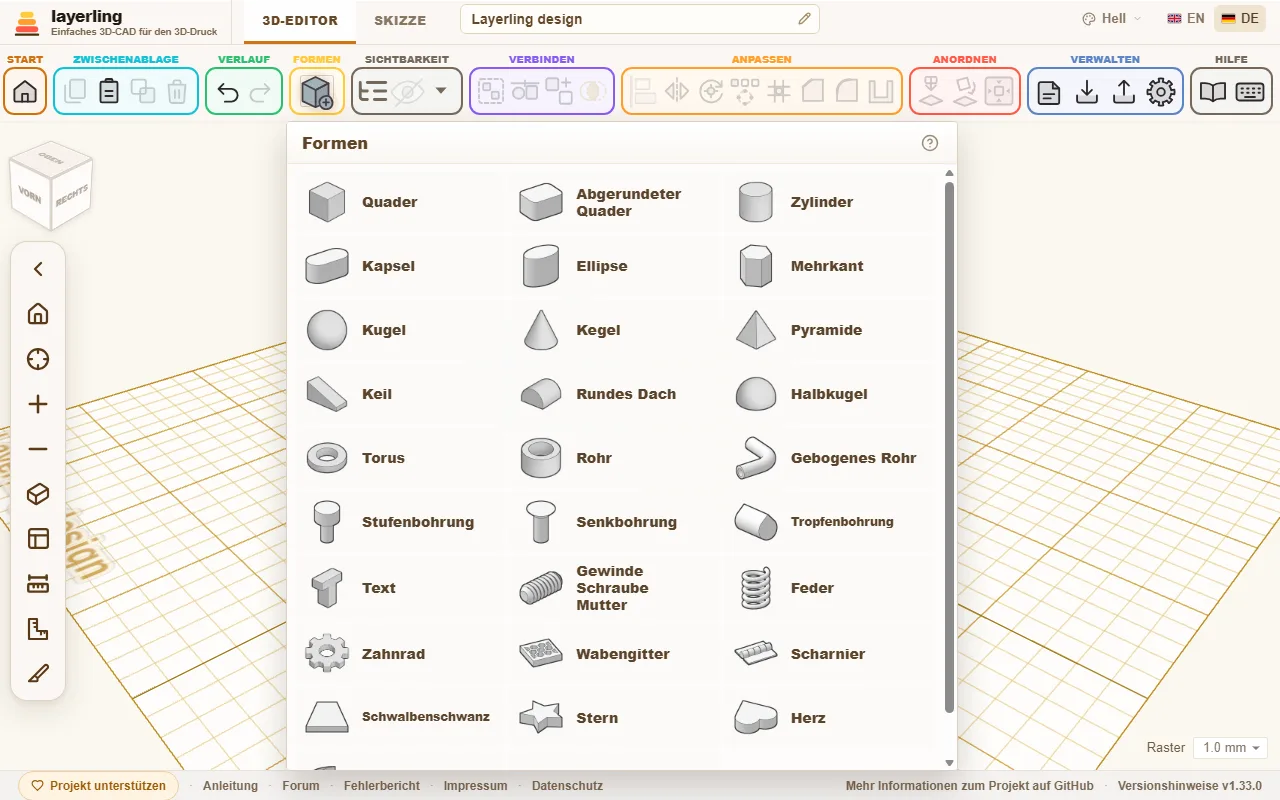
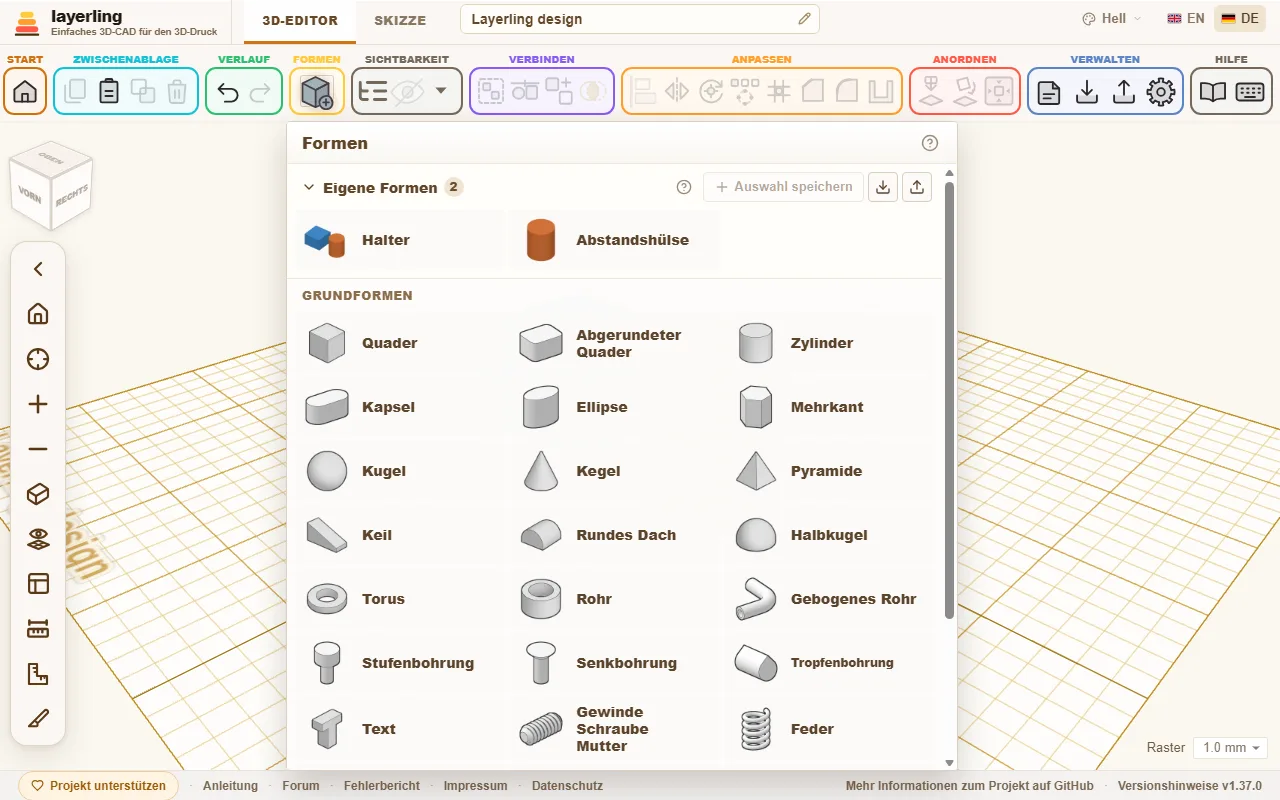
Release 1.38.0
Custom shapes in the shape library, in the browser and on the server
store, backed up with "Back up all" (#109). Guide picture of the shape
library retaken with the new section.

diff --git a/apps/web/src/lib/messages.de.ts b/apps/web/src/lib/messages.de.ts
@@ -423,7 +423,7 @@ export const MESSAGES_DE: Record<MessageKey, string> = {
   "guide.files.import": "STL, OBJ, 3MF, STEP und SVG lassen sich importieren und darum herum weiterbauen. Eine farbige OBJ oder 3MF kommt als ein Körper je Farbe; bei einer OBJ die .mtl oder das ZIP aus Tinkercad gleich mit auswählen.",
   "guide.files.bugReport": "„Fehlerbericht“ unten in der Fußzeile speichert den Entwurf als .lyl samt Version, Browser und den letzten Meldungen, zum Anhängen im Forum oder bei GitHub.",
   "guide.files.storeOff": "Auf dem eigenen Server legst du neben der index.html einen Ordner „store\" an - dann lassen sich Entwürfe zusätzlich zum Browser auch auf dem Server ablegen. Dafür muss der Server PHP können.",
-  "guide.files.storeOn": "Diese Installation legt Entwürfe auch auf dem Server ab. Die Startseite zeigt den Ordner neben deinen Browser-Entwürfen: zieh Entwürfe hinein, leg dort Unterordner an oder starte neue gleich darin - gesichert wird von selbst.",
+  "guide.files.storeOn": "Diese Installation legt Entwürfe auch auf dem Server ab. Die Startseite zeigt den Ordner neben deinen Browser-Entwürfen: zieh Entwürfe hinein, leg dort Unterordner an oder starte neue gleich darin - gesichert wird von selbst. Auch eigene Formen können dort liegen, im Ordner „Custom shapes“.",
   "guide.group.settings": "Einstellungen",
   "guide.settings.workspace": "Das Zahnrad öffnet Maßeinheiten, Raster, Plattengröße, Farben und die Länge des Verlaufs.",
   "guide.settings.language": "Die Sprache stellst du in den Einstellungen auf der Startseite um.",

diff --git a/apps/web/src/lib/messages.en.ts b/apps/web/src/lib/messages.en.ts
@@ -424,7 +424,7 @@ export const MESSAGES_EN = {
   "guide.files.import": "STL, OBJ, 3MF, STEP and SVG can be imported and built around. A coloured OBJ or 3MF comes in as one body per colour; for an OBJ, select its .mtl or Tinkercad's ZIP along with it.",
   "guide.files.bugReport": "\"Bug report\" in the footer at the bottom saves the design as .lyl with its version, browser and the last messages, to attach in the forum or on GitHub.",
   "guide.files.storeOff": "On your own server, create a folder called \"store\" next to index.html to store designs on the server in addition to the browser. That needs PHP.",
-  "guide.files.storeOn": "This installation keeps designs on the server as well. The start page shows that folder beside your browser designs: drag designs into it, make subfolders, or start a new design right there - it saves itself.",
+  "guide.files.storeOn": "This installation keeps designs on the server as well. The start page shows that folder beside your browser designs: drag designs into it, make subfolders, or start a new design right there - it saves itself. Custom shapes can go there too, into the folder \"Custom shapes\".",
   "guide.group.settings": "Settings",
   "guide.settings.workspace": "The gear opens units, grid, plate size, colours and how much history is kept.",
   "guide.settings.language": "The language is switched in Settings on the start page.",

diff --git a/apps/web/src/lib/lylProject.ts b/apps/web/src/lib/lylProject.ts
@@ -25,7 +25,7 @@ function knownSchema(schema: unknown) {
 export const LYL_FORMAT_VERSION = 2;
 export const LYL_MINIMUM_READER_VERSION = 2;
 export const LYL_OLDEST_READABLE_FORMAT_VERSION = 1;
-export const LYL_CREATED_WITH_VERSION = "1.37.0";
+export const LYL_CREATED_WITH_VERSION = "1.38.0";
 export const LYL_MEDIA_TYPE = "application/vnd.layerling.project+zip";
 
 export const LYL_LIMITS = {

diff --git a/docs/CHANGELOG.md b/docs/CHANGELOG.md
@@ -4,7 +4,7 @@ layerling started over at 1.0.0 when it was forked from SketchForge-3D 1.0.9.
 Everything from 1.0.9 downwards is SketchForge's history, kept here because the
 code still carries it - so a lower number further down is older, not newer.
 
-## Unreleased
+## 1.38.0
 
 - **Custom shapes:** Bodies you need again and again - a holder, a grip, a base plate - can now be kept at the top of the shape library: select them, click "Save selection" and give them a name. A click on the tile inserts them into any design, or drag the tile onto the workplane to put them where you let go. Several bodies come back together, as they stood to each other, and stay selectable one by one. Tiles show a small picture of the bodies and can be renamed and deleted; the section folds away. They are kept in the browser apart from the designs (in IndexedDB, so even large imported models fit), and "Back up all" on the start page now takes them along in a "Custom shapes" folder of the ZIP; opening the backup brings them back, skipping shapes already there. Two buttons in the section back up and load just the shapes. With the shared server store on, shapes can also go to the server, into a "Custom shapes" folder with one .lyl and picture each, ready on every device; the section then shows "On the server" and "In this browser", saving goes to the server unless you choose otherwise, and a cloud button moves a browser shape there. The folder shows on the start page too, where a shape opens and changes like any design. Nothing new was needed in store.php or the Node route. MCP: `layerling_save_custom_shape`, `layerling_list_custom_shapes`, `layerling_insert_custom_shape`, `layerling_delete_custom_shape`. Suggested by @kwjaarsveld-star in #109.
 - **Status messages on narrow screens:** On a phone the message beside the view cube had 20 pixels left and ran down letter by letter; it now takes the width up to the edge.

diff --git a/docs/guide/de/12-dateien-und-speichern.md b/docs/guide/de/12-dateien-und-speichern.md
@@ -56,7 +56,7 @@ Macht layerling etwas Unerwartetes, speichere einen {{ui:editor.bugReport}}: Der
 
 ## Gemeinsame Entwürfe auf einem Server
 
-Wenn layerling auf einem eigenen Rechner oder Webserver läuft, kann es einen gemeinsamen Ordner anbieten, in dem alle Nutzer Entwürfe ablegen. Auf der Startseite erscheint er dann als {{ui:dashboard.sharedProjects}}. Du legst dort Ordner an, verschiebst Entwürfe per Ziehen und suchst über den ganzen Ordner. Ein Entwurf, der dort liegt, sichert sich von selbst dorthin zurück.
+Wenn layerling auf einem eigenen Rechner oder Webserver läuft, kann es einen gemeinsamen Ordner anbieten, in dem alle Nutzer Entwürfe ablegen. Auf der Startseite erscheint er dann als {{ui:dashboard.sharedProjects}}. Du legst dort Ordner an, verschiebst Entwürfe per Ziehen und suchst über den ganzen Ordner. Ein Entwurf, der dort liegt, sichert sich von selbst dorthin zurück. Eigene Formen auf dem Server liegen dort im Ordner `Custom shapes`, siehe [Formen](chapter:formen).
 
 Das ist kein gleichzeitiges Bearbeiten: Wer eine Datei öffnet, arbeitet an einer eigenen Kopie. Hat inzwischen jemand anderes die Datei geändert, verweigert layerling das Überschreiben.
 

diff --git a/docs/guide/en/12-files-and-saving.md b/docs/guide/en/12-files-and-saving.md
@@ -56,7 +56,7 @@ If layerling does something unexpected, save a {{ui:editor.bugReport}}: the link
 
 ## Shared designs on a server
 
-When layerling runs on your own computer or web server, it can offer a shared folder in which all users keep designs. On the start page it then appears as {{ui:dashboard.sharedProjects}}. You create folders there, move designs by dragging and search across the whole folder. A design that lives there saves itself back to it.
+When layerling runs on your own computer or web server, it can offer a shared folder in which all users keep designs. On the start page it then appears as {{ui:dashboard.sharedProjects}}. You create folders there, move designs by dragging and search across the whole folder. A design that lives there saves itself back to it. Custom shapes kept on the server sit in its folder `Custom shapes`, see [Shapes](chapter:shapes).
 
 That is not simultaneous editing: whoever opens a file works on a copy of their own. If somebody else has changed the file in the meantime, layerling refuses to overwrite it.
 

diff --git a/README.md b/README.md
@@ -211,6 +211,10 @@ and it belongs to nobody on the server.
 A design that lives on the server saves itself back there, five seconds after the last change and when you leave the
 editor. Thumbnails land beside the files in `.thumbnails`. Designs that are only in your browser stay there, untouched.
 
+Custom shapes saved to the server go into a folder named `Custom shapes` at the top of the store, one `.lyl` with its
+picture each. layerling creates it with the first such shape; it is an ordinary folder, so it shows on the start page and
+a shape in it opens and saves like any design. Neither the Node route nor `store.php` needs anything extra for it.
+
 Opening a design from the server gives you a private local working copy. Saving back checks the revision on the server
 first; if someone else changed the file in the meantime, layerling refuses to overwrite it and asks you to reload or save
 under a different name. This is shared file storage, not simultaneous editing.
